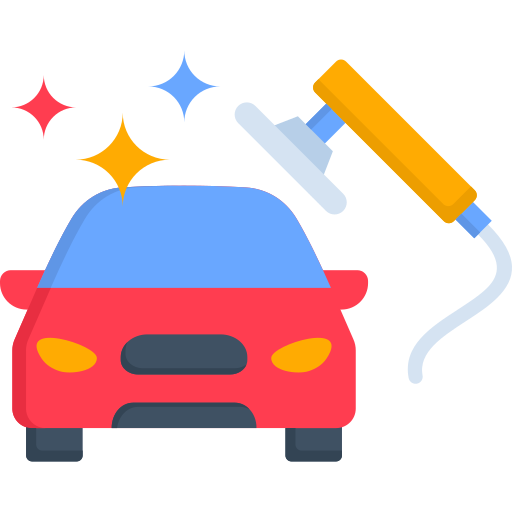
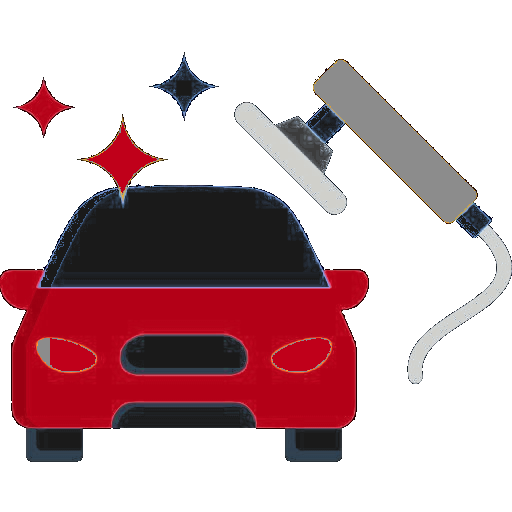
final v1

diff --git a/frontend/src/components/BrandLogos.jsx b/frontend/src/components/BrandLogos.jsx
@@ -33,7 +33,7 @@ const BrandLogos = () => {
         {row1Brands.map((brand, i) => (
           <div
             key={i}
-            className='flex-1 flex items-center justify-center border border-[#F5F5F0] rounded-lg py-6 px-4 hover:border-[#C0001A] hover:shadow-sm transition-all cursor-pointer'
+            className='flex-1 flex items-center justify-center border border-[#F5F5F0] rounded-lg py-6 px-4'
           >
             <img src={brand.image} alt={brand.name} className='w-full max-h-12 object-contain' />
           </div>
@@ -45,7 +45,7 @@ const BrandLogos = () => {
         {row2Brands.map((brand, i) => (
           <div
             key={i}
-            className='flex items-center justify-center border border-[#F5F5F0] rounded-lg py-5 px-3 hover:border-[#C0001A] hover:shadow-sm transition-all cursor-pointer'
+            className='flex items-center justify-center border border-[#F5F5F0] rounded-lg py-5 px-3'
           >
             {/* max-h-[38px] scales the image asset down to exactly 80% of max-h-12 (48px) */}
             <img src={brand.image} alt={brand.name} className='w-full max-h-[38px] object-contain' />

diff --git a/frontend/src/components/Footer.jsx b/frontend/src/components/Footer.jsx
@@ -51,9 +51,8 @@ const Footer = () => {
             href='https://ciano-webs.vercel.app/'
             target='_blank'
             rel='noopener noreferrer'
-            className='hover:text-white/60 transition-colors'
           >
-            Ciano Webs
+            <img src={assets.cianowebs_logo} alt='Ciano Webs' className='h-5 inline-block opacity-30 hover:opacity-60 transition-opacity align-middle mb-0.5' />
           </a>
         </p>
       </div>

diff --git a/frontend/src/assets/assets/assets.js b/frontend/src/assets/assets/assets.js
@@ -22,6 +22,7 @@ import brand_pro from './brand_pro.png'
 import brand_insta from './brand_insta.png'
 import brand_automagic from './brand_automagic.png'
 import brand_kroxx from './brand_kroxx.png'
+import cianowebs_logo from './cianowebs_logo.png'
 
 export const assets = {
     logo,
@@ -48,4 +49,5 @@ export const assets = {
     brand_insta,
     brand_automagic,
     brand_kroxx,
+    cianowebs_logo,
 }